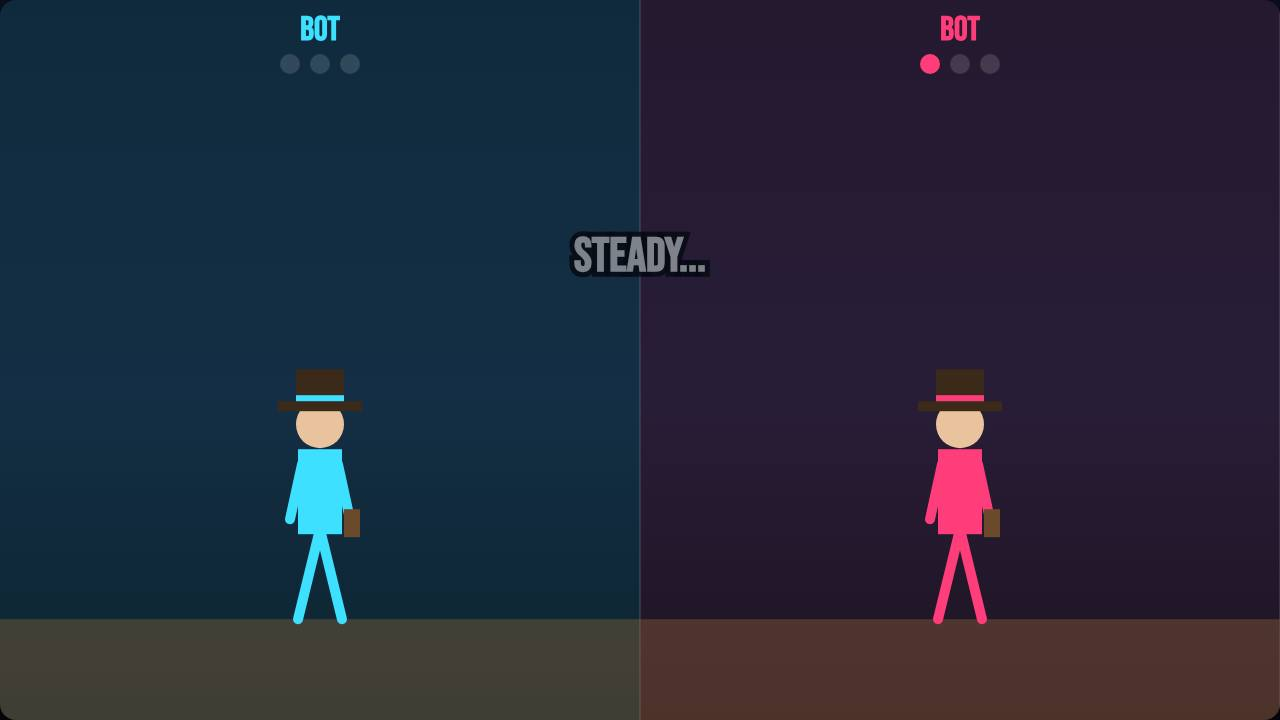
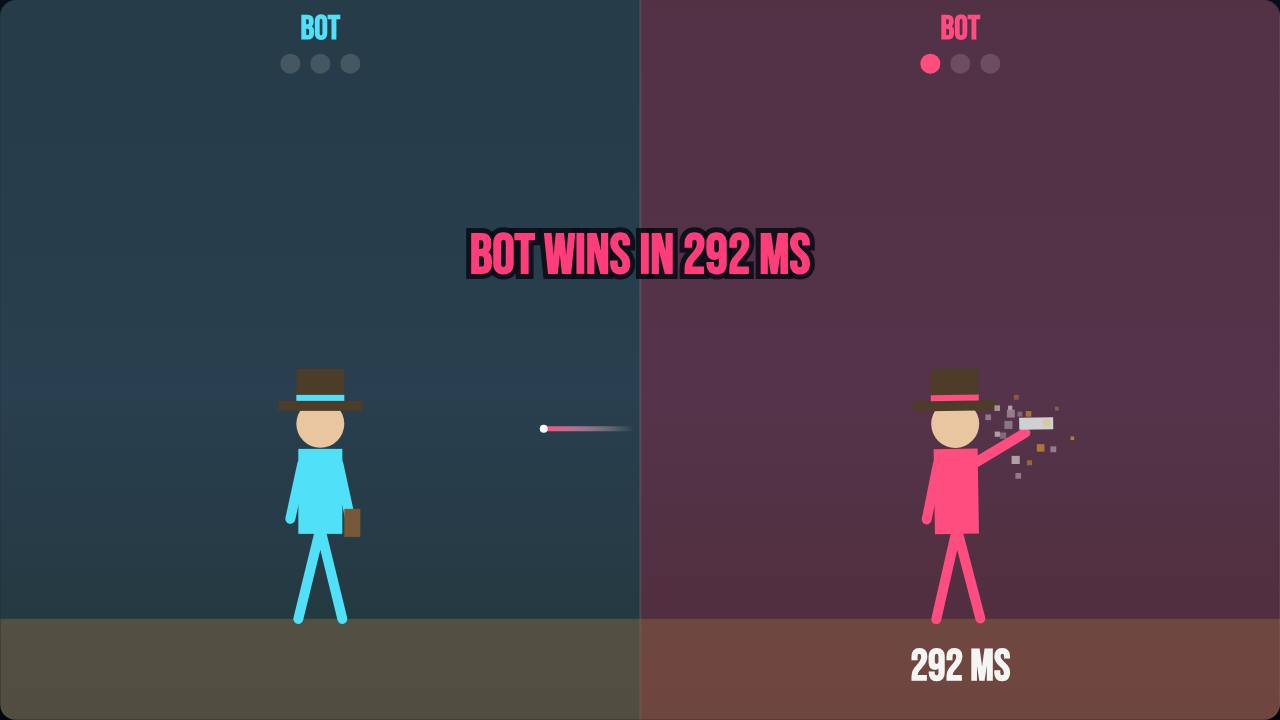
Recapture Tower Topple, Quick Draw, Rope Skip thumbnails; fix ragdoll rest and hat clamp
Rope Skip: a knocked-out jumper kept re-bouncing every frame once it
landed, leaving it squashed into a sliver. It now rests after settling.
Quick Draw: shot hats fly off screen instead of sticking to the edge.
Capture script: Quick Draw shot at 4.2s (mid-shot), Rope Skip at 6.5s.

Claude-Session: https://claude.ai/code/session_01Q8hhYXN67WXUfqPbMhpM7Q

diff --git a/src/games/rope-skip/rope-skip.ts b/src/games/rope-skip/rope-skip.ts
@@ -74,7 +74,7 @@ interface Jumper {
   jumps: number;
   streak: number;
   /** Ragdoll state after a knockout. */
-  rag: { x: number; y: number; vx: number; vy: number; rot: number; spin: number; bounces: number } | null;
+  rag: { x: number; y: number; vx: number; vy: number; rot: number; spin: number; bounces: number; resting: boolean } | null;
   /** Squash (<1) / stretch (>1) on the body, eases back to 1. */
   squash: number;
 }
@@ -235,7 +235,7 @@ class RopeSkip implements GameInstance {
 
   private stepRag(j: Jumper, dt: number): void {
     const r = j.rag;
-    if (!r) return;
+    if (!r || r.resting) return;
     r.vy += 1600 * dt;
     r.x += r.vx * dt;
     r.y += r.vy * dt;
@@ -256,6 +256,7 @@ class RopeSkip implements GameInstance {
         r.vy = 0;
         r.vx = 0;
         r.spin = 0;
+        r.resting = true;
       }
     }
     const edge = this.ctx.width - 30;
@@ -302,7 +303,7 @@ class RopeSkip implements GameInstance {
       j.jumpT = null;
       j.streak = 0;
       const v = knockVelocity(this.omega, this.rand);
-      j.rag = { x: j.x, y: GROUND_Y - 26, vx: v.vx, vy: v.vy, rot: 0, spin: v.spin, bounces: 0 };
+      j.rag = { x: j.x, y: GROUND_Y - 26, vx: v.vx, vy: v.vy, rot: 0, spin: v.spin, bounces: 0, resting: false };
       j.squash = 1.4;
       this.juice.hitStop(0.06);
       this.juice.shake(0.35 + 0.25 * (this.omega / MAX_OMEGA));

diff --git a/src/games/quick-draw/quick-draw.ts b/src/games/quick-draw/quick-draw.ts
@@ -291,6 +291,7 @@ class QuickDraw implements GameInstance {
     }
     this.bullets = this.bullets.filter((b) => b.life > 0 && b.x > -100 && b.x < this.ctx.width + 100);
 
+    this.hats = this.hats.filter((h) => h.x > -HAT_W * 2 && h.x < this.ctx.width + HAT_W * 2);
     for (const h of this.hats) {
       h.vy += 1500 * dt;
       h.x += h.vx * dt;
@@ -311,8 +312,6 @@ class QuickDraw implements GameInstance {
           this.juice.burst(h.x, groundY, "#b8925a", { count: 5, speed: 80, gravity: 300, size: 3, life: 0.35, angle: -Math.PI / 2, spread: 2 });
         }
       }
-      if (h.x < -HAT_W) h.x = -HAT_W;
-      if (h.x > this.ctx.width + HAT_W) h.x = this.ctx.width + HAT_W;
     }
   }
 
